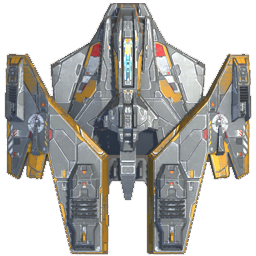
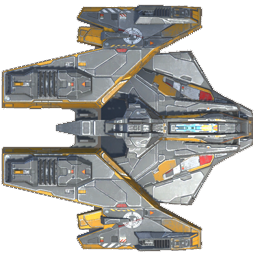
feat: implement Aircraft member functions

diff --git a/Asteroids/Aircraft.cpp b/Asteroids/Aircraft.cpp
@@ -1,29 +1,81 @@
 #include "Aircraft.h"
 
-Aircraft::Aircraft() {}
+void Aircraft::UpdateSpriteSize() {
+	if (getTexture() == NULL) { return; }
+	sf::Vector2u texSize = getTexture()->getSize();
+	setOrigin(texSize.x / 2, texSize.y / 2);
+	sf::Vector2f scale(radius / texSize.x, radius / texSize.y);
+	setScale(scale);
+}
+
+Aircraft::Aircraft() {
+	radius = 1;
+	headingAngle = 0;
+	speed = 0;
+	rotateSpeed = 0;
+	setPosition(1, 1);
+}
 
 Aircraft::~Aircraft() {}
 
-void Aircraft::SetSize(sf::Vector2f size) {
-	this->size = size;
+void Aircraft::SetRadius(float radius) {
+	this->radius = radius;
+	UpdateSpriteSize();
 }
 
-void Aircraft::SetSize(float x, float y) {
-	size = sf::Vector2f(x, y);
+
+float Aircraft::GetRadius() {
+	return radius;
 }
 
-sf::Vector2f Aircraft::GetSize() {
-	return size;
+void Aircraft::SetSpeed(float speed) {
+	this->speed = speed;
+}
+
+float Aircraft::GetSpeed() {
+	return speed;
+}
+
+void Aircraft::SetRotateSpeed(float angle) {
+	this->rotateSpeed = angle;
+}
+
+float Aircraft::GetRotateSpeed() {
+	return rotateSpeed;
+}
+
+void Aircraft::SetTexture(sf::Texture& texture) {
+	setTexture(texture);
+	UpdateSpriteSize();
 }
 
 void Aircraft::SetDirection(float angle) {
 	headingAngle = angle;
 }
 
-sf::Vector2f Aircraft::GetDirection() {
-	return sf::Vector2f(cos(headingAngle), sin(headingAngle));
+float Aircraft::GetDirection() {
+	return headingAngle;
 }
 
 void Aircraft::Move(float dt) {
-	move(sf::Vector2f(cos(headingAngle), sin(headingAngle) * speed * dt));
+	move(sf::Vector2f(cos(headingAngle *3.14 / 180), sin(headingAngle * 3.14 / 180)) * speed * dt);
+}
+
+
+void Aircraft::RotateLeft(float dt) {
+	float rotation = -rotateSpeed * dt;
+
+	rotate(rotation);
+
+	headingAngle = getRotation();
+}
+
+void Aircraft::RotateRight(float dt) {
+
+	float rotation = rotateSpeed * dt;
+
+	rotate(rotation);
+
+	headingAngle = getRotation();
+	
 }

diff --git a/Asteroids/Main.cpp b/Asteroids/Main.cpp
@@ -6,19 +6,52 @@
 #include <SFML/OpenGL.hpp>
 #include <SFML/Main.hpp>
 
+#include <iostream>
 
+#include "Aircraft.h"
 
 sf::RenderWindow window(sf::VideoMode(1366, 768), "Asteroids");
+sf::Texture aircraftTex;
 
+
+bool LoadResources() {
+	if (!aircraftTex.loadFromFile("resources/Aircraft.png")) { return false; }
+	return true;
+}
 
 int main() {
+	if (!LoadResources()) { return EXIT_FAILURE; }
+	
+	Aircraft player;
+	player.SetRadius(50);
+	player.SetSpeed(400);
+	player.SetRotateSpeed(120);
+	player.setPosition(100, 100);
+	player.SetTexture(aircraftTex);
+
+	sf::Clock clock;
+
 	while (window.isOpen()) {
 		sf::Event event;
 		while (window.pollEvent(event)) {
 			if (event.type == sf::Event::Closed)
 				window.close();
 		}
+		float deltaTime = clock.restart().asSeconds();
+		if (sf::Keyboard::isKeyPressed(sf::Keyboard::A)) {
+			player.RotateLeft(deltaTime);
+		}
+		if (sf::Keyboard::isKeyPressed(sf::Keyboard::D)) {
+			player.RotateRight(deltaTime);
+		}
+		if (sf::Keyboard::isKeyPressed(sf::Keyboard::W)) {
+			player.Move(deltaTime);
+		}
+
+		float d = player.GetDirection();
+		std::cout << cos(d * 3.14 / 180) <<  ", " << sin(d * 3.14 / 180) << "\n";
 		window.clear();
+		window.draw(player);
 		window.display();
 	}
 	return EXIT_SUCCESS;

diff --git a/Asteroids/Aircraft.h b/Asteroids/Aircraft.h
@@ -2,20 +2,29 @@
 #include <SFML/Graphics.hpp>
 class Aircraft : public sf::Sprite {
 private:
-	sf::Vector2f size;
+	float radius;
 
 	float headingAngle;
+
 	float speed;
+	
+	float rotateSpeed;
+
+	void UpdateSpriteSize();
 
 public:
 	Aircraft();
 	~Aircraft();
-	void SetSize(sf::Vector2f size);
-	void SetSize(float x, float y);
-	sf::Vector2f GetSize();
-
-	void SetDirection(float angle);
-	sf::Vector2f GetDirection();
-
+	void SetRadius(float radius);
+	float GetRadius();
+	void SetSpeed(float speed);
+	float GetSpeed();
+	void SetRotateSpeed(float angle);
+	float GetRotateSpeed();
+	void SetTexture(sf::Texture& texture);
+	void SetDirection(float angle); 
+	float GetDirection();
 	void Move(float dt);
+	void RotateLeft(float dt);
+	void RotateRight(float dt);
 };
